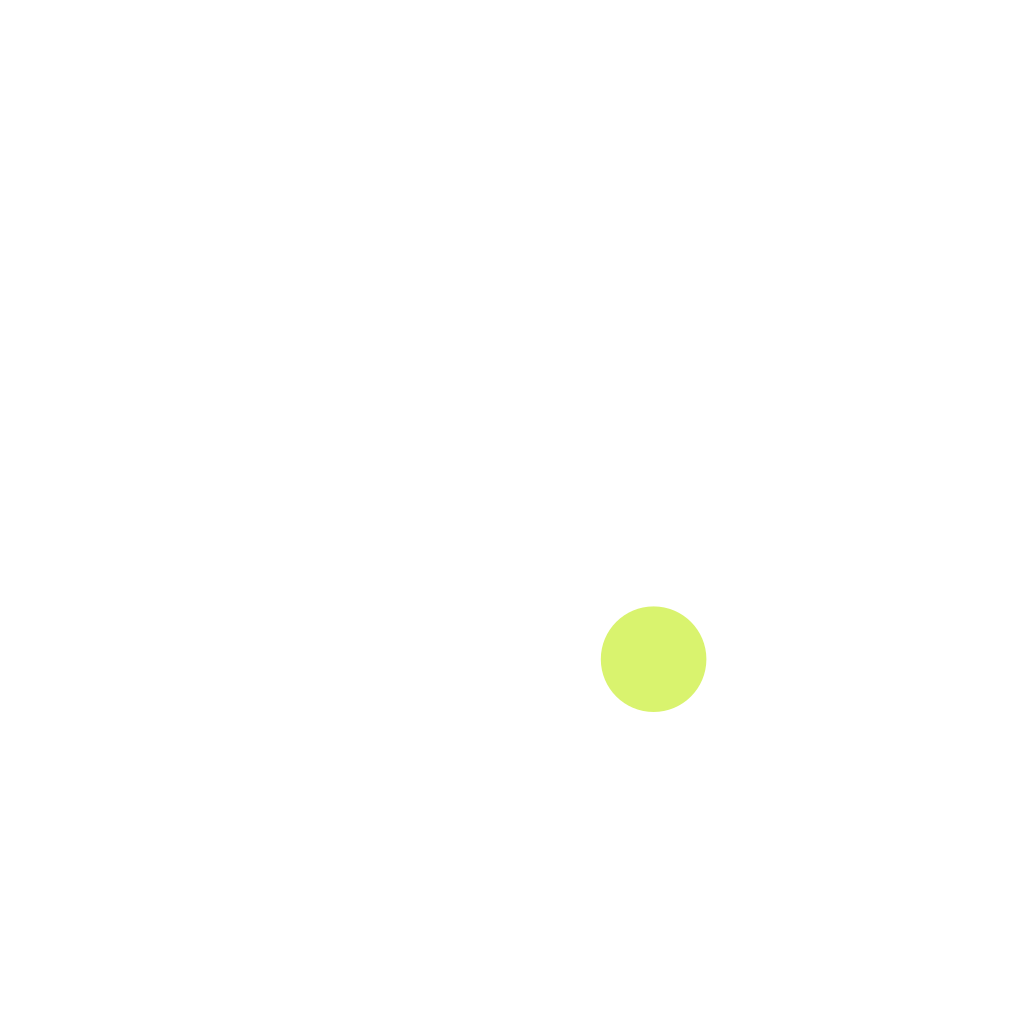
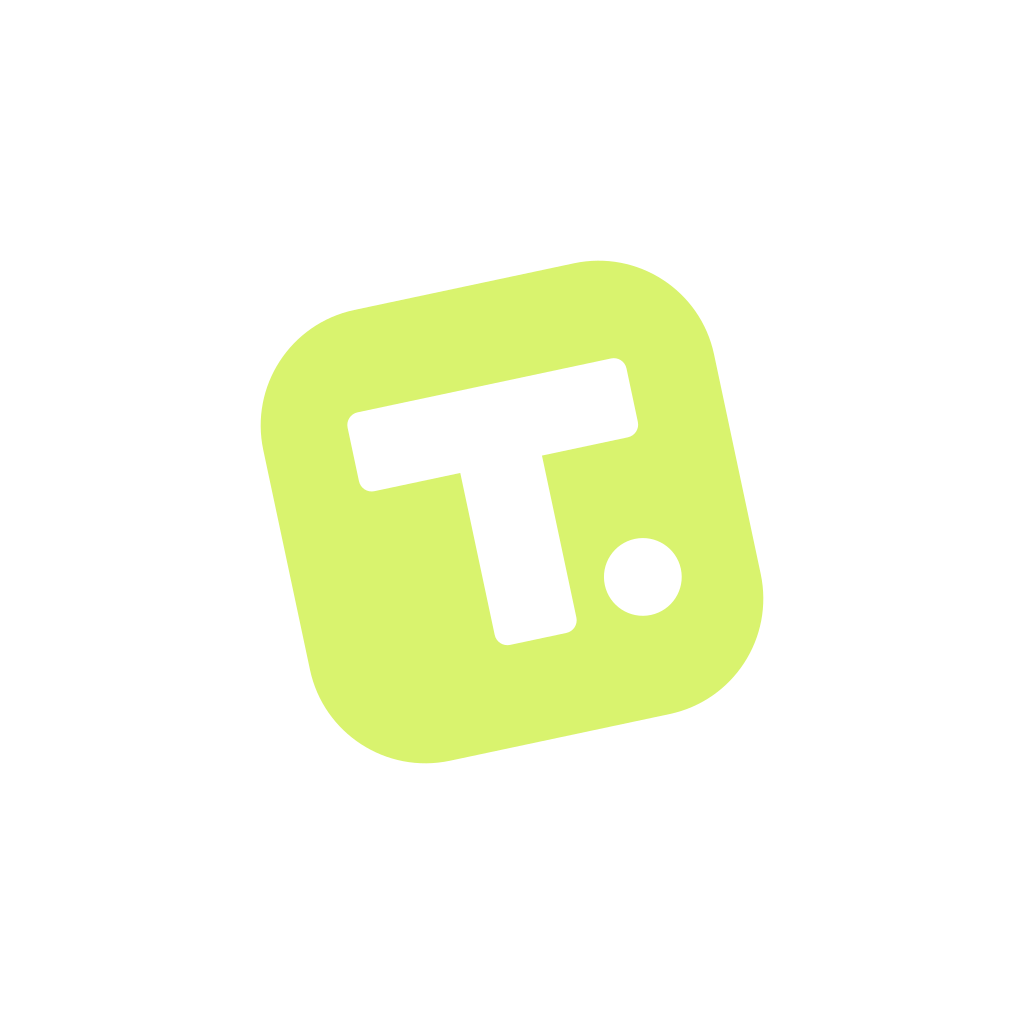
feat(brand): new "punched-through T." emblem; fix profile name overlapping cover; dev --lan mode
Emblem: tilted rounded tile (the motif that recurs in the profile cover, web hero and CV page) with the wordmark's
"T." cut out of it as a real SVG mask, so the ground shows through the letter and the cut-out stays transparent on
Android themed icons. One geometry in design-source/brand/build.mjs regenerates every platform asset, plus an in-app
BrandMark used in the app header. Profile: name/headline pushed clear of the cover edge (was overlapping by a few px).
Dev stack gains an opt-in --lan mode (gateway only) so a phone on the same Wi-Fi can reach the local backend.

Changed region(s): [[0.25, 0.25, 0.75, 0.75]]

diff --git a/apps/mobile/src/design-system/components/Screen.tsx b/apps/mobile/src/design-system/components/Screen.tsx
@@ -4,6 +4,7 @@ import { SafeAreaView, useSafeAreaInsets } from 'react-native-safe-area-context'
 import { colors, layout, space } from '../tokens';
 import { Text } from '../Text';
 import { IconButton } from './Button';
+import { BrandMark } from '../BrandMark';
 import { useLayout } from '../useLayout';
 
 interface ScreenProps extends ScrollViewProps {
@@ -53,7 +54,7 @@ export function AppHeader({ title, onBack, right, brand }: HeaderProps) {
       {onBack && <IconButton icon="back" accessibilityLabel="Geri" onPress={onBack} style={{ marginLeft: -space[2] }} />}
       {brand ? (
         <View style={styles.brand} accessible accessibilityLabel="TechApp">
-          <Text variant="section" color="primary">T.</Text><Text variant="section"> techapp</Text>
+          <BrandMark size={28} /><Text variant="section">techapp</Text>
         </View>
       ) : (
         <Text variant="label" numberOfLines={1} style={{ flex: 1, textAlign: onBack ? 'center' : 'left' }}>{title}</Text>
@@ -69,6 +70,6 @@ const styles = StyleSheet.create({
   content: { paddingBottom: space[8], paddingTop: space[2] },
   footer: { paddingTop: space[3], backgroundColor: colors.canvas, borderTopWidth: 1, borderTopColor: colors.border, gap: space[2] },
   header: { minHeight: 56, flexDirection: 'row', alignItems: 'center', gap: space[1] },
-  brand: { flex: 1, flexDirection: 'row', alignItems: 'baseline' },
+  brand: { flex: 1, flexDirection: 'row', alignItems: 'center', gap: space[2] },
   headerRight: { flexDirection: 'row', alignItems: 'center' },
 });

diff --git a/apps/mobile/src/features/profile/ProfileScreen.tsx b/apps/mobile/src/features/profile/ProfileScreen.tsx
@@ -75,7 +75,8 @@ export function ProfileScreen({ navigation }: NativeStackScreenProps<ProfileStac
             </View>
             <View style={styles.identity}>
               <View style={styles.avatarRing}><Avatar name={profile.display_name} size={72} /></View>
-              <View style={{ flex: 1, paddingTop: space[6] }}>
+              {/* The row is pulled up by space[7] so the avatar overlaps the cover; the text starts clear below the cover edge. */}
+              <View style={{ flex: 1, paddingTop: space[7] + space[2] }}>
                 <Text variant="section" accessibilityRole="header">{profile.display_name ?? 'Adını ekle'}</Text>
                 <Text variant="bodySmall" color="textSecondary">{profile.headline ?? session?.user.email ?? ''}</Text>
                 {!!subtitle && <Text variant="caption" color="textSecondary" style={{ marginTop: 2 }}>{subtitle}</Text>}

diff --git a/apps/mobile/src/design-system/brandMark.generated.ts b/apps/mobile/src/design-system/brandMark.generated.ts
@@ -1,0 +1,2 @@
+// Generated by design-source/brand/build.mjs. Do not edit by hand.
+export const brandMarkXml = "<svg xmlns=\"http://www.w3.org/2000/svg\" viewBox=\"0 0 1024 1024\"><rect width=\"1024\" height=\"1024\" rx=\"229\" fill=\"#4B46D6\"/><g transform=\"rotate(-12 512 512)\"><rect x=\"192\" y=\"192\" width=\"640\" height=\"640\" rx=\"164\" fill=\"#D9F36E\"/><g transform=\"translate(9 -6)\" fill=\"#4B46D6\"><path d=\"M322 338h360a18 18 0 0 1 18 18v76a18 18 0 0 1-18 18H560v230a18 18 0 0 1-18 18h-80a18 18 0 0 1-18-18V450H322a18 18 0 0 1-18-18v-76a18 18 0 0 1 18-18z\"/><circle cx=\"662\" cy=\"644\" r=\"54\"/></g></g></svg>";

diff --git a/apps/mobile/src/design-system/BrandMark.tsx b/apps/mobile/src/design-system/BrandMark.tsx
@@ -1,0 +1,10 @@
+import React from 'react';
+import { Platform } from 'react-native';
+import { SvgXml } from 'react-native-svg';
+import { brandMarkXml } from './brandMark.generated';
+
+/** The TechApp emblem (tilted tile with the "T." punched through). Decorative: the wordmark next to it carries the name. */
+export function BrandMark({ size = 28 }: { size?: number }) {
+  const hidden = Platform.OS === 'web' ? {} : ({ accessibilityElementsHidden: true, importantForAccessibility: 'no' } as const);
+  return <SvgXml xml={brandMarkXml} width={size} height={size} {...hidden} />;
+}

diff --git a/apps/mobile/src/design-system/index.ts b/apps/mobile/src/design-system/index.ts
@@ -1,6 +1,7 @@
 export * from './tokens';
 export * from './Text';
 export * from './TechIcon';
+export * from './BrandMark';
 export * from './useReducedMotion';
 export * from './useLayout';
 export * from './components/Grid';
